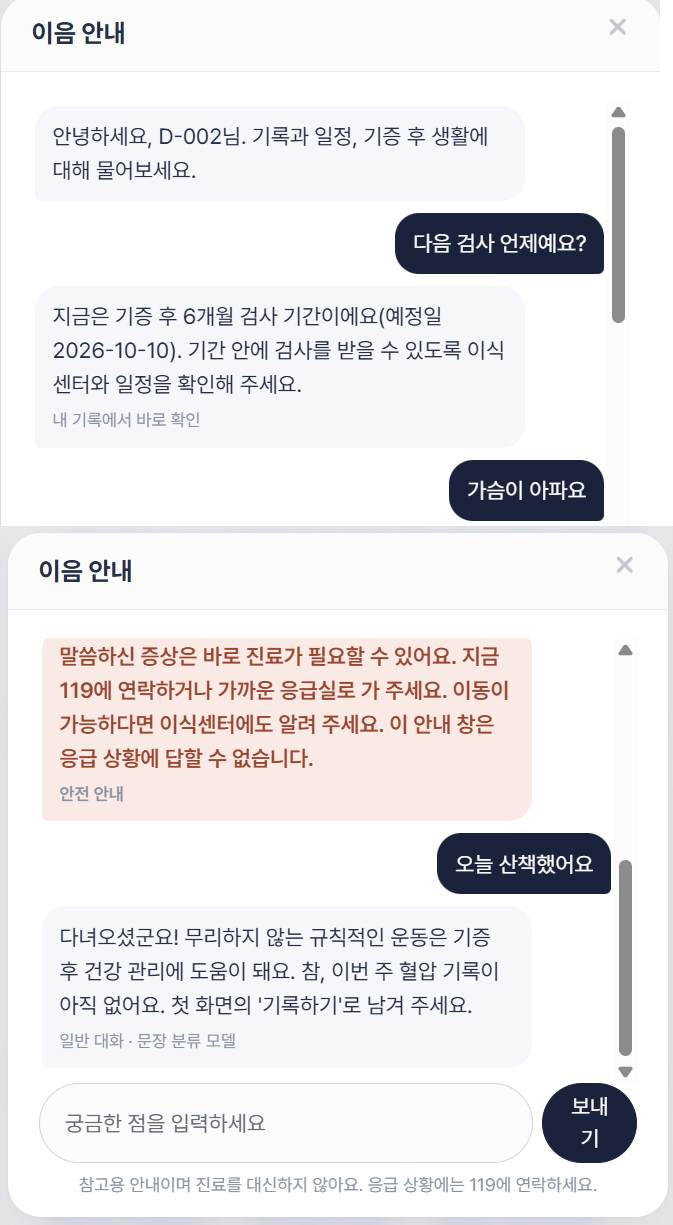
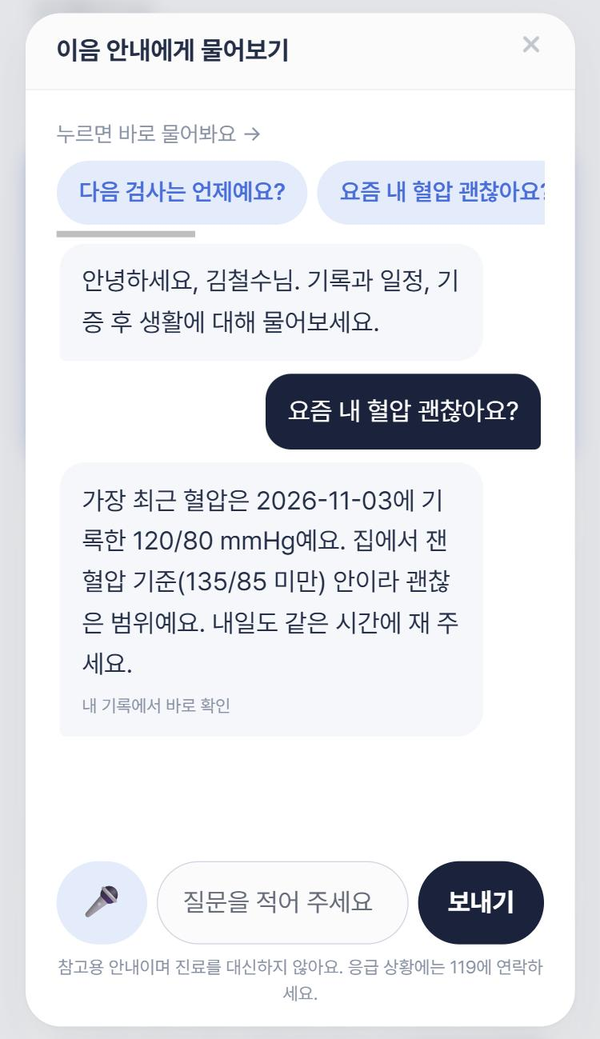
README 새 화면 캡처, 안내 Agent 혈압 질문 분류 수정, 의료진 EMR 버튼 수정

diff --git a/static/staff.html b/static/staff.html
@@ -273,7 +273,15 @@ $("labForm").addEventListener("submit", async (e) => {
       showMsg(data.completed_visit ? `저장했습니다 · ${data.completed_visit} 완료 처리` : "저장했습니다", true);
       e.target.querySelector("[name=egfr]").value = "";
       e.target.querySelector("[name=creatinine]").value = "";
-      $("emrBtn").addEventListener("click", async (e) => {
+      load();
+      setTimeout(() => $("labDialog").close(), 1200);
+    } else {
+      showMsg("저장 실패: " + errText(data), false);
+    }
+  } catch { showMsg("서버에 연결할 수 없습니다.", false); }
+});
+
+$("emrBtn").addEventListener("click", async (e) => {
   e.preventDefault();
   $("emrBtn").textContent = "EMR에서 가져오는 중…";
   try {
@@ -288,14 +296,6 @@ $("labForm").addEventListener("submit", async (e) => {
     load();
   } finally { $("emrBtn").textContent = "EMR에서 검사 결과 가져오기"; }
 });
-load();
-      setTimeout(() => $("labDialog").close(), 1200);
-    } else {
-      showMsg("저장 실패: " + errText(data), false);
-    }
-  } catch { showMsg("서버에 연결할 수 없습니다.", false); }
-});
-
 load();
 </script>
 </body>

diff --git a/agent.py b/agent.py
@@ -505,6 +505,10 @@ def run_agent_stream(messages: list[dict], impl: dict):
 
 # ---------- 5) 데모 모드: API 키가 없을 때의 간단한 규칙 답변 ----------
 
+# 내 기록·검사에 관한 단어: 이런 말이 있으면 일반 대화로 넘기지 않는다
+RECORD_WORDS = ["혈압", "체중", "몸무게", "검사", "egfr", "크레아티닌", "단백", "수치", "결과", "예약", "병원"]
+
+
 def small_talk(question: str, safety: dict, impl: dict) -> dict | None:
     """
     딥러닝 분류가 '일반'(인사·감사·근황)으로 본 문장은 AI 없이 바로 답한다.
@@ -512,6 +516,10 @@ def small_talk(question: str, safety: dict, impl: dict) -> dict | None:
     """
     tri = safety.get("triage")
     if not tri or tri["label"] != "일반" or tri["probs"]["일반"] < 0.7:
+        return None
+    # "요즘 내 혈압 괜찮아요?"처럼 인사처럼 보여도 내 기록·안내문을 묻는 말이면 그쪽이 답한다
+    q_nospace = question.replace(" ", "").lower()
+    if guide_direct(question) or any(w in q_nospace for w in RECORD_WORDS):
         return None
     q = question.replace(" ", "")
     if any(w in q for w in ["고마", "감사"]):
@@ -562,6 +570,8 @@ def record_answer(question: str, impl: dict) -> dict | None:
             reply += " 최근 혈압이 높게 측정되고 있다는 알림이 있어요. 같은 시간에 다시 재 보고, 계속 높으면 이식센터에 알려 주세요."
         elif any("혈압" in n["title"] and "낮게" in n["title"] for n in impl["get_notifications"]()):
             reply += " 혈압이 낮게 측정되었어요. 어지럽거나 쓰러질 것 같으면 이식센터나 병원에 연락해 주세요."
+        elif last["systolic_bp"] < 135 and last["diastolic_bp"] < 85 and last["systolic_bp"] >= 90 and last["diastolic_bp"] >= 60:
+            reply += " 집에서 잰 혈압 기준(135/85 미만) 안이라 괜찮은 범위예요. 내일도 같은 시간에 재 주세요."
         else:
             reply += " 수치에 대한 판단은 담당 의료진에게 확인해 주세요."
         return {"reply": reply, "tools_used": ["get_home_records", "get_notifications"], "mode": "record"}

diff --git a/README.md b/README.md
@@ -10,18 +10,40 @@
 
 ## 화면
 
+**공여자 화면** · 어르신도 알기 쉽게: 무슨 기록인지 한 줄 설명, 내 수치가 기준의 어디쯤인지, 누르기만 하면 답하는 질문 버튼
+
 <table>
   <tr>
-    <td align="center" width="28%"><b>공여자 앱</b></td>
-    <td align="center" width="72%"><b>안내 Agent</b> · 내 기록 확인 → 응급 안전 안내 → 일상 대화</td>
+    <td align="center" width="33%"><b>첫 화면</b><br><sub>오늘 기록 · 다음 검사 D-day</sub></td>
+    <td align="center" width="33%"><b>병원 검사 결과</b><br><sub>쉬운 이름 · 판정 · 크레아티닌 그래프</sub></td>
+    <td align="center" width="33%"><b>수치 설명</b><br><sub>기준표에서 내 위치 · 기증자용 설명</sub></td>
   </tr>
   <tr>
-    <td valign="top"><img src="docs/images/donor.png" alt="공여자 화면: 기증 후 일수, 이번 주 기록, 다음 추적검사, 혈압 그래프, 최근 검사 결과"></td>
-    <td valign="top"><img src="docs/images/agent-chat.png" alt="안내 Agent 대화: 다음 검사 일정 답변, 가슴 통증에 119 안내, 산책 이야기에 기록 권유"></td>
+    <td valign="top"><img src="docs/images/donor.png" alt="공여자 첫 화면: 오늘의 혈압·체중 기록, 최근 7일, 다음 추적검사 D-day"></td>
+    <td valign="top"><img src="docs/images/donor-labs.png" alt="병원 검사 결과: eGFR·크레아티닌·소변 단백 쉬운 이름과 판정, 크레아티닌 변화 그래프"></td>
+    <td valign="top"><img src="docs/images/donor-explain.png" alt="eGFR 설명 창: 기준표에서 내 수치 줄 강조, 기증자용 설명"></td>
+  </tr>
+  <tr>
+    <td align="center"><b>검사 여정</b><br><sub>6개월 · 1년 · 2년 · 3년 · 매년</sub></td>
+    <td align="center"><b>물어보기</b><br><sub>큰 질문 버튼 · 말로 묻기(🎤)</sub></td>
+    <td align="center"><b>안내 Agent</b><br><sub>내 기록에서 바로 답</sub></td>
+  </tr>
+  <tr>
+    <td valign="top"><img src="docs/images/donor-journey.png" alt="기증 후 검사 여정: 단계별 의미와 검사 기간"></td>
+    <td valign="top"><img src="docs/images/donor-ask.png" alt="질문 카드: 누르기만 하면 답하는 큰 질문 버튼"></td>
+    <td valign="top"><img src="docs/images/agent-chat.png" alt="안내 Agent 대화: 요즘 내 혈압 괜찮아요 질문에 최근 혈압과 기준으로 답변"></td>
+  </tr>
+  <tr>
+    <td align="center"><b>로그인 · 회원가입</b><br><sub>공여자 코드 + 출생 연도로 본인 확인</sub></td>
+    <td align="center" colspan="2"><b>안전 안내</b><br><sub>응급 증상은 AI 답변 대신 119 안내</sub></td>
+  </tr>
+  <tr>
+    <td valign="top"><img src="docs/images/login.png" alt="회원가입 화면: 공여자/의료진 선택, 공여자 코드와 출생 연도"></td>
+    <td valign="top" colspan="2"><img src="docs/images/agent-safety.png" alt="안내 Agent: 가슴 통증에 119 안내, 일상 대화"></td>
   </tr>
 </table>
 
-**의료진 화면** · 놓친 추적검사, 혈압 경고, 이탈 위험 예측, 최근 12주 자가 기록률을 한눈에 보고 연구 데이터를 엑셀로 내려받습니다.
+**의료진 화면** · 놓친 추적검사, 혈압 경고, 이탈 위험 예측, 최근 12주 자가 기록률을 한눈에 보고, EMR(FHIR)에서 검사 결과를 가져오며, 연구 데이터를 엑셀 · eCRF 형식으로 내려받습니다.
 
 <img src="docs/images/staff.png" alt="의료진 화면: 공여자별 상태, 다음 추적검사와 이탈 위험, 최근 eGFR, 12주 자가 기록 막대">
 
